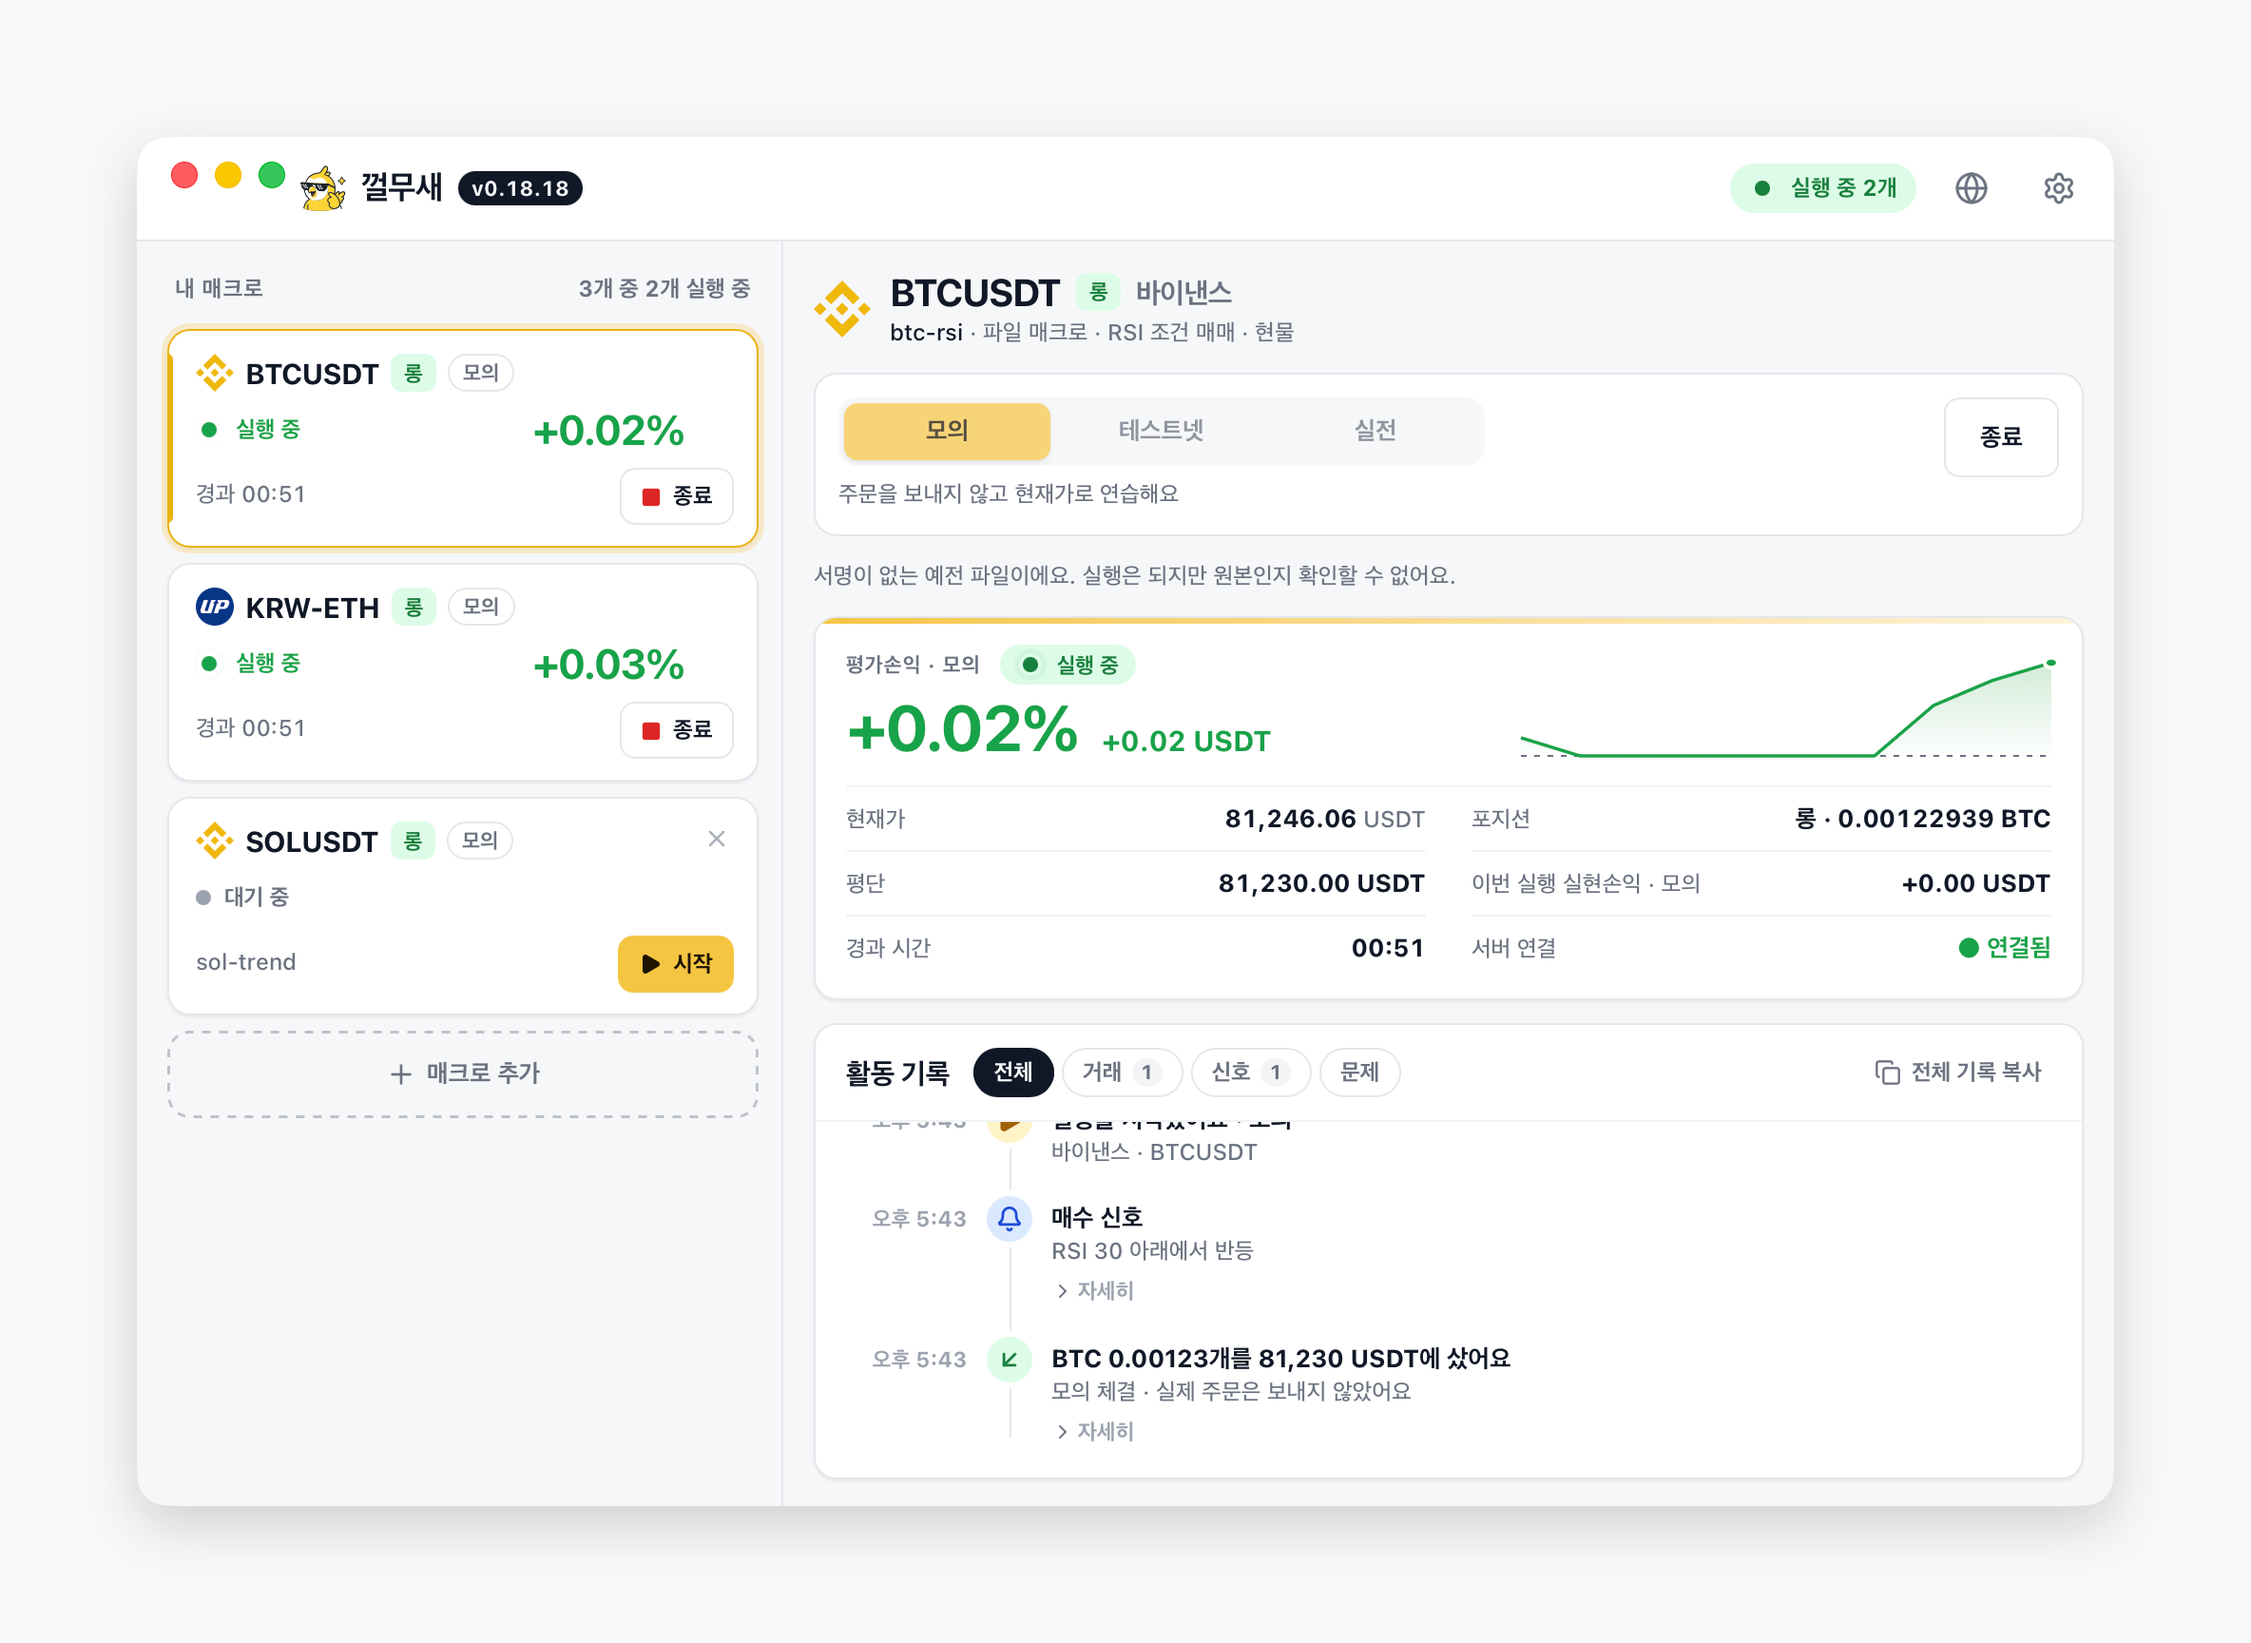
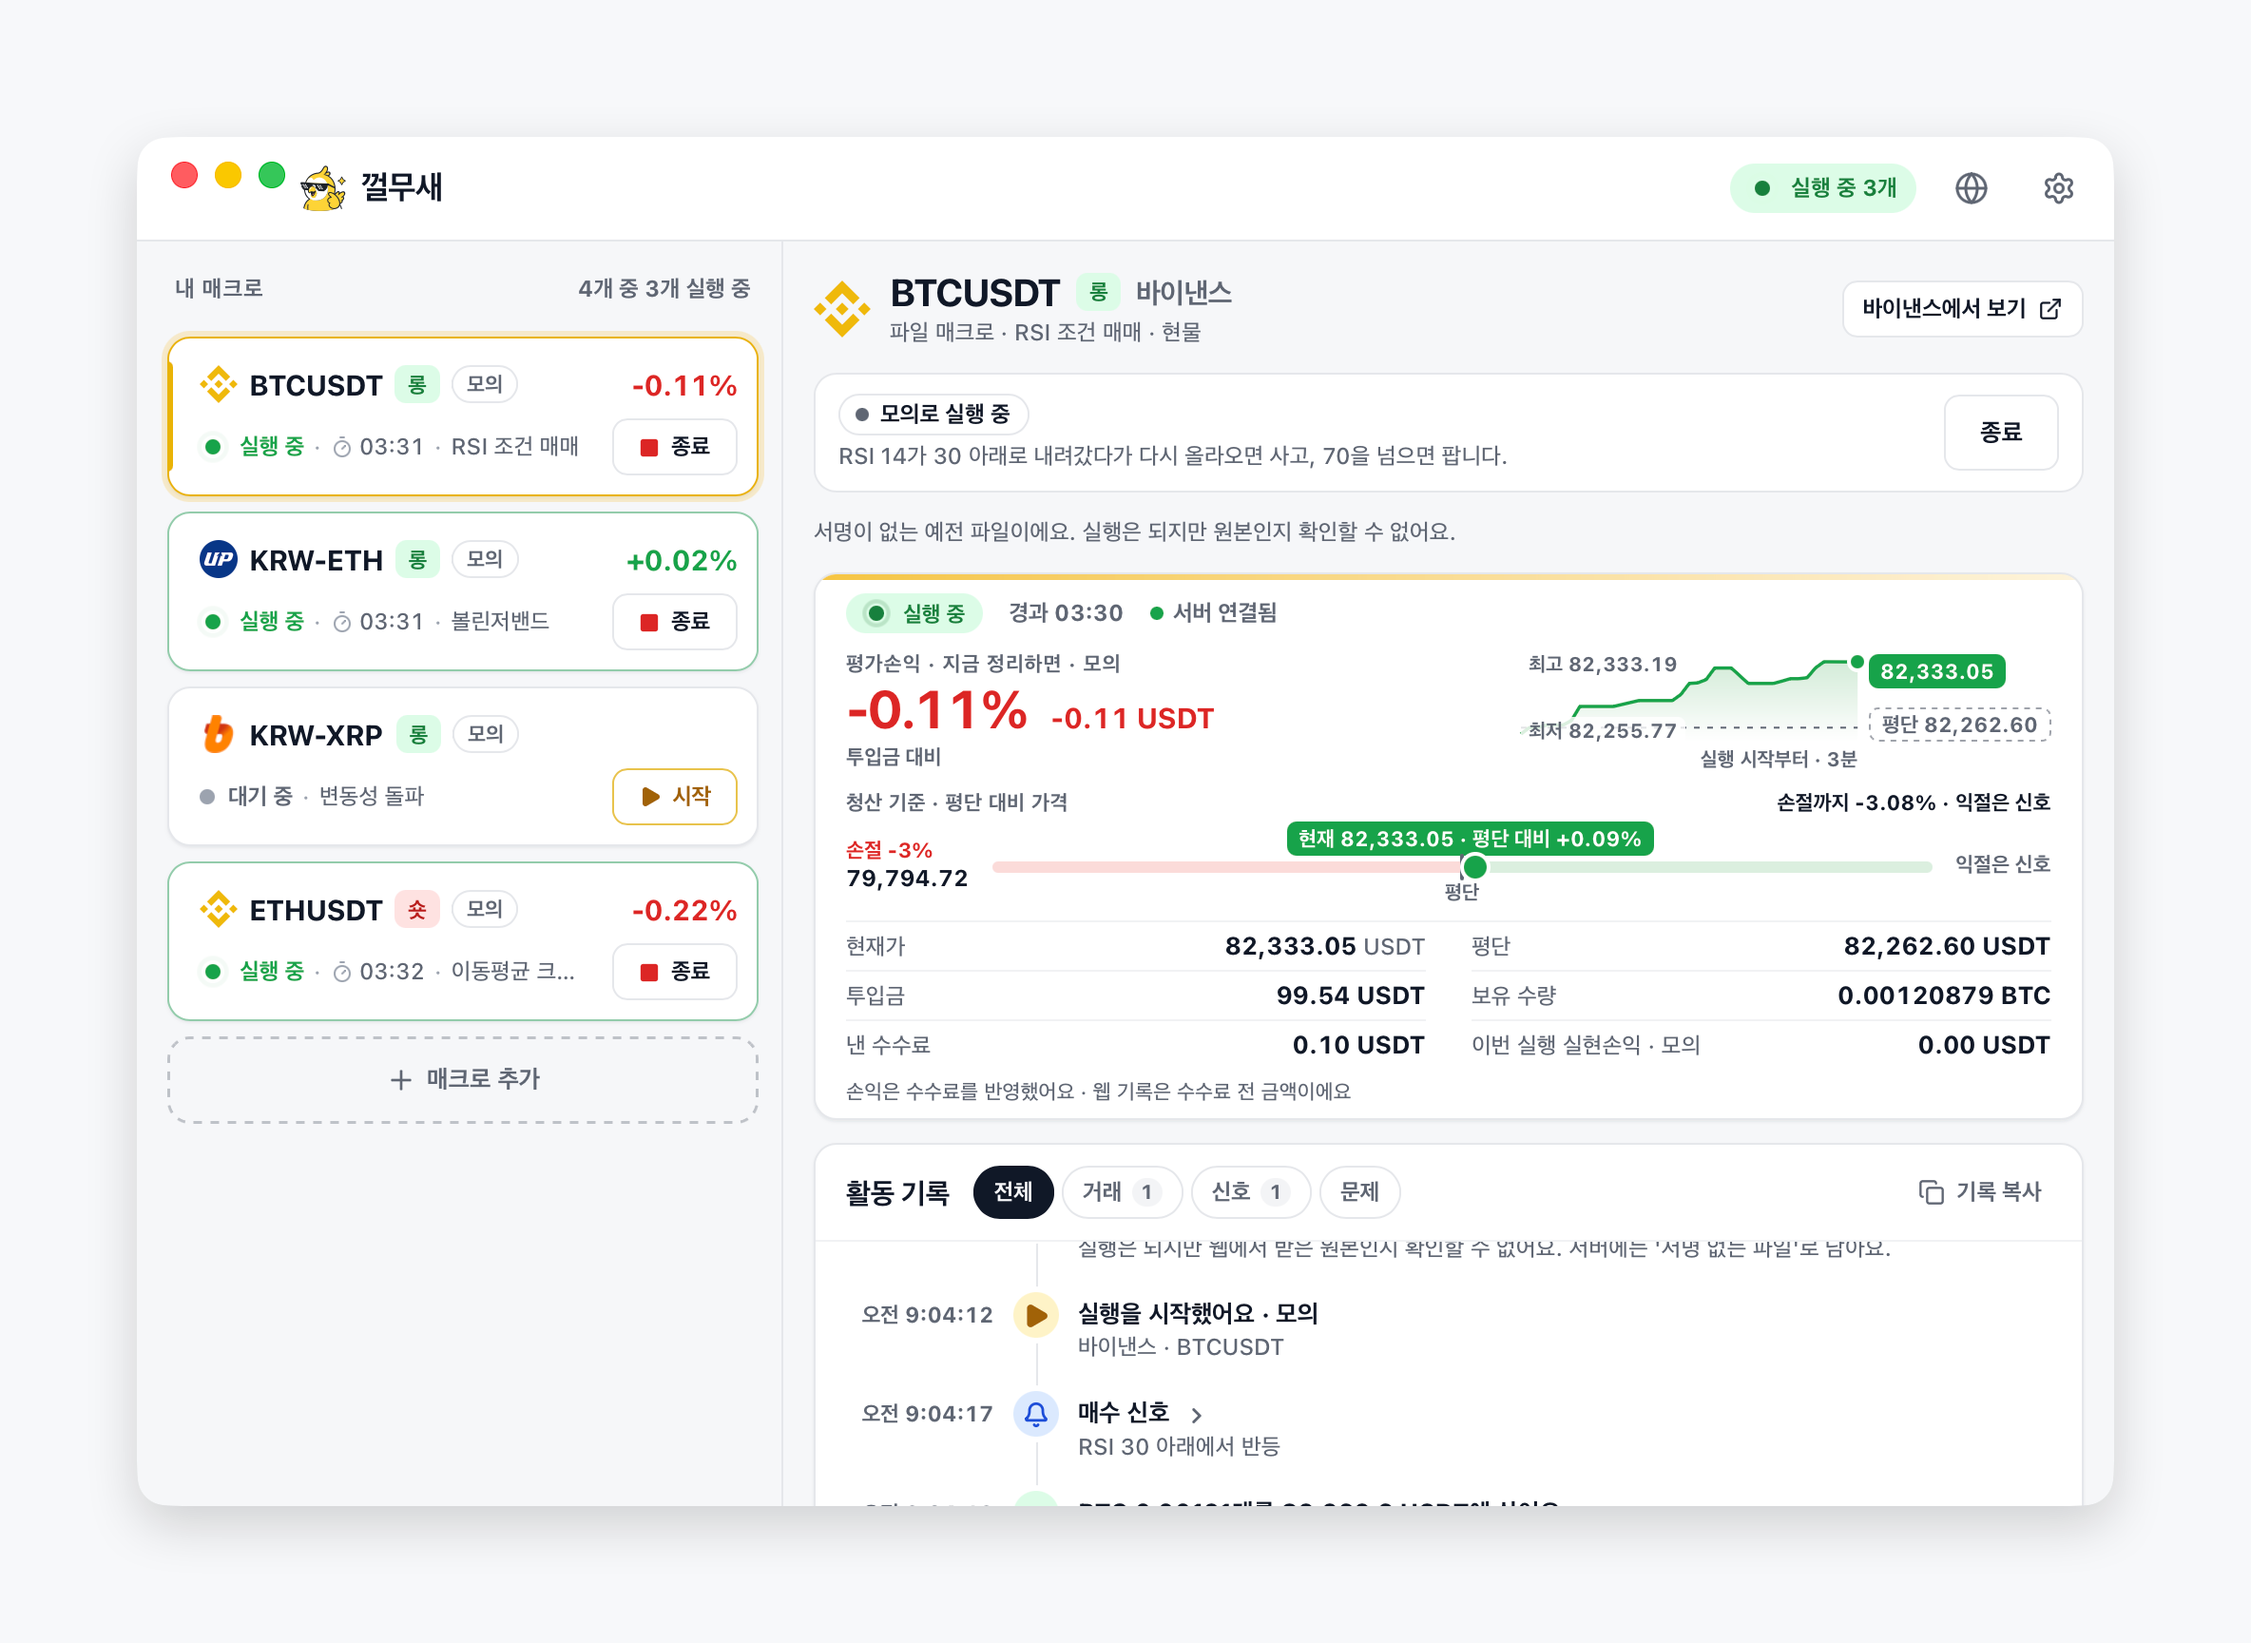
docs: 0.19.7 — 문서 스크린샷을 0.19.6 화면으로 교체·Windows VM 설치 확인
- 실행·매크로 추가·설정·창 닫기·트레이·정보·연결 도우미·업데이트 4단계·디스크 이미지
- 데모 앱(별도 식별자·임시 홈·가짜 서버)으로 찍어 사용 중인 앱을 건드리지 않음
- README 화면 표 설명을 지금 화면에 맞춤

diff --git a/CHANGELOG.md b/CHANGELOG.md
@@ -8,6 +8,15 @@
 - `main`에 푸시하면 CI 뒤 그 버전의 릴리스 초안이 자동으로 만들어짐. 초안을 [Publish release]하면 배포되고, 그 버전 칸에 날짜가 달리며 함께 나간 칸은 `배포하지 않음(<버전>에 포함)`이 됨(자동).
 - 서버 연동 레벨(`runner_version`으로 보냄)은 19임 — 서버가 기능별 최소 레벨과 비교하는 정수. 앱 버전은 `0.<서버 연동 레벨>.<패치>`.
 
+## [0.19.7] - 미배포
+
+### 개발
+
+- 문서 스크린샷을 0.19.6 화면으로 다시 찍음(`docs/screenshots/`) — 실행·매크로 추가·설정·창 닫기·트레이·정보·연결 도우미·업데이트 4단계·디스크 이미지.
+  - 데모 앱(별도 식별자·임시 홈·가짜 서버·로컬 업데이트 서버)으로 찍어 사용 중인 앱과 키체인을 건드리지 않음. 공인 IP는 문서용 주소(203.0.113.24)로 보임.
+- Windows 11 VM에서 0.19.6 설치 확인: 설치 화면 그림 선명·비율 정상, 설치 폴더 `GGParrot`, 데이터 폴더 `ggparrot-desktop`, 프로그램 목록 '껄무새 0.19.6'.
+- README 화면 표 설명을 지금 화면에 맞춤.
+
 ## [0.19.6] - 미배포
 
 ### 변경

diff --git a/README.md b/README.md
@@ -27,16 +27,16 @@
 | 실행 | 매크로 추가 |
 |---|---|
 | ![두 매크로 동시 실행](docs/screenshots/running.png) | ![매크로 추가 창](docs/screenshots/library.png) |
-| **설정·키** | **설정·창 닫아도 계속 실행** |
+| **설정·거래소 연결** | **설정·창 닫아도 계속 실행** |
 | ![설정](docs/screenshots/settings.png) | ![창을 닫아도 계속 실행](docs/screenshots/display.png) |
-| **메뉴 막대(트레이) 메뉴** | **정보·업데이트** |
+| **메뉴 막대(트레이) 메뉴** | **설정·정보(문의용)·앱 기록** |
 | ![트레이 메뉴](docs/screenshots/tray.png) | ![정보](docs/screenshots/about.png) |
 | **연결 도우미·예시 화면** | |
 | ![거래소 화면 예시](docs/screenshots/wizard-example.png) | |
 
 업데이트(로컬 업데이트 서버로 실제 설치까지 시험한 화면):
 
-| 버전 옆 알림 | 내려받는 중 |
+| 새 버전 알림(로고 옆·설정 › 정보) | 내려받는 중 |
 |---|---|
 | ![새 버전 알림](docs/screenshots/update-notice.png) | ![진행률](docs/screenshots/update-downloading.png) |
 | **설치 준비** | **다시 시작 후** |
